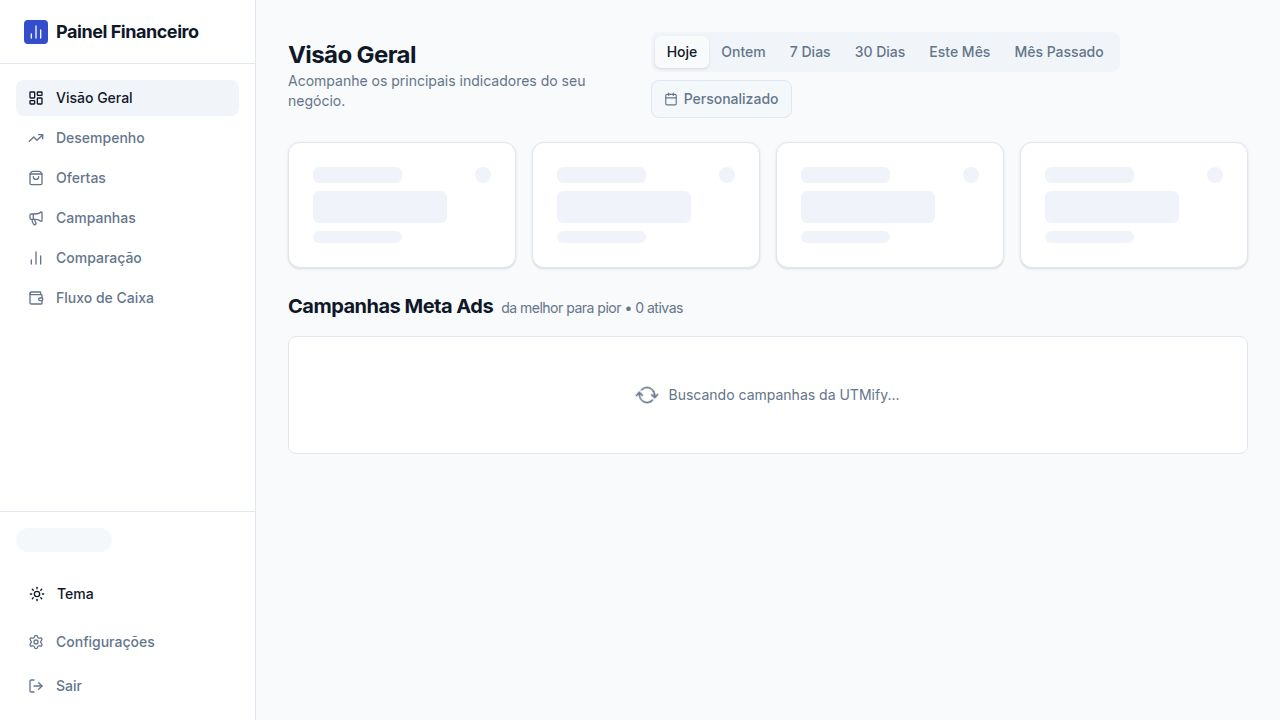
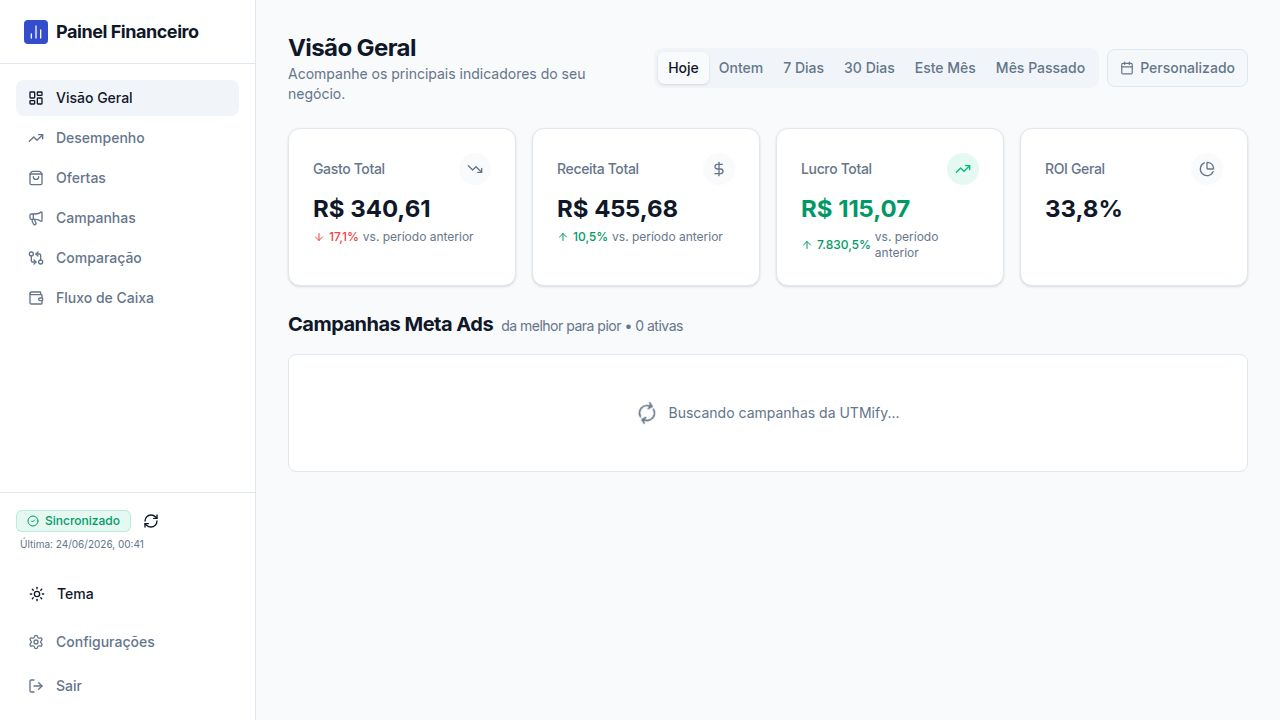
Update application configuration to ensure successful deployment
Adjust Vite configuration to make PORT and BASE_PATH optional during production builds, resolving deployment issues.

Replit-Commit-Author: Agent
Replit-Commit-Session-Id: 9ad54997-bd78-4769-88ec-32bd91625538
Replit-Commit-Checkpoint-Type: full_checkpoint
Replit-Commit-Event-Id: 78a17a6f-1b00-4dff-ab4b-ade7a44040e6
Replit-Commit-Screenshot-Url: https://storage.googleapis.com/screenshot-production-us-central1/4b2fd3a5-cc71-4b0e-9afe-8d5deadad236/9ad54997-bd78-4769-88ec-32bd91625538/6FOTrVX
Replit-Helium-Checkpoint-Created: true

diff --git a/artifacts/painel-financeiro/vite.config.ts b/artifacts/painel-financeiro/vite.config.ts
@@ -4,23 +4,21 @@ import tailwindcss from "@tailwindcss/vite";
 import path from "path";
 import runtimeErrorOverlay from "@replit/vite-plugin-runtime-error-modal";
 
-const rawPort = process.env.PORT;
+const isProduction = process.env.NODE_ENV === "production";
 
-if (!rawPort) {
+// PORT and BASE_PATH are only required at dev/preview time, not during build
+const rawPort = process.env.PORT;
+const port = rawPort ? Number(rawPort) : 3000;
+
+const basePath = process.env.BASE_PATH ?? "/";
+
+if (!isProduction && !rawPort) {
   throw new Error(
     "PORT environment variable is required but was not provided.",
   );
 }
 
-const port = Number(rawPort);
-
-if (Number.isNaN(port) || port <= 0) {
-  throw new Error(`Invalid PORT value: "${rawPort}"`);
-}
-
-const basePath = process.env.BASE_PATH;
-
-if (!basePath) {
+if (!isProduction && !process.env.BASE_PATH) {
   throw new Error(
     "BASE_PATH environment variable is required but was not provided.",
   );